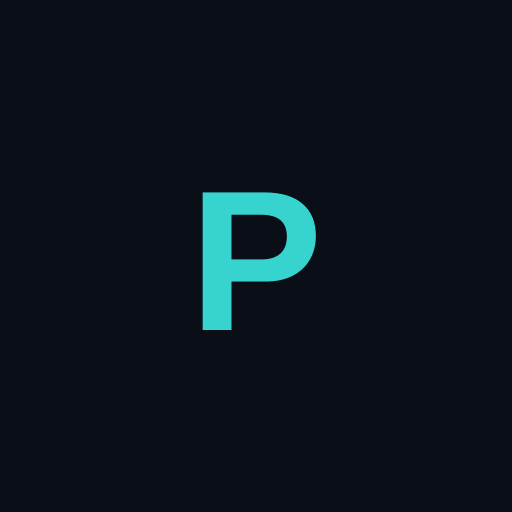
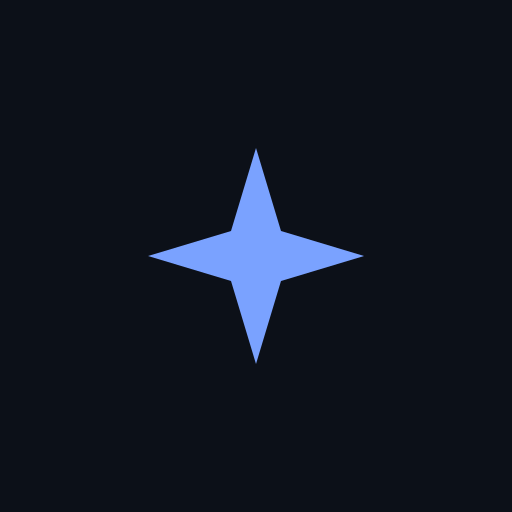
Add files via upload

Changed region(s): [[0.2812, 0.2812, 0.7188, 0.7188]]

diff --git a/index.html b/index.html
@@ -1,10 +1,10 @@
 <!DOCTYPE html>
 <html lang="pt-PT"><head><meta charset="UTF-8">
 <meta name="viewport" content="width=device-width, initial-scale=1, viewport-fit=cover">
-<meta name="theme-color" content="#0A0E17"><meta name="mobile-web-app-capable" content="yes">
-<meta name="apple-mobile-web-app-capable" content="yes"><title>PersonTrades</title>
+<meta name="theme-color" content="#0B0D10"><meta name="mobile-web-app-capable" content="yes">
+<meta name="apple-mobile-web-app-capable" content="yes"><title>Norte</title>
 <link rel="manifest" href="manifest.json"><link rel="icon" href="icon-192.png"><link rel="apple-touch-icon" href="icon-192.png">
-<style>html,body{margin:0;padding:0;background:#0A0E17}</style></head>
+<style>html,body{margin:0;padding:0;background:#0B0D10}</style></head>
 <body><div id="root"></div>
 <script>/**
  * @license React
@@ -330,18 +330,18 @@ const STORAGE_KEY = "persontrades:v1";
 
 /* ---------- paleta: "terminal de trading", distinta do PersonTurnos ---------- */
 const C = {
-  bg: "#0A0E17",
-  panel: "#111725",
-  panel2: "#161D2E",
-  line: "#212A40",
-  ink: "#E7ECF5",
-  dim: "#7E88A0",
-  cyan: "#37D4CF",
-  // acento principal (frio, "mercado")
-  cyanDim: "rgba(55,212,207,0.12)",
-  up: "#3DDC84",
+  bg: "#0B0D10",
+  panel: "#0F131B",
+  panel2: "#141926",
+  line: "#212A3E",
+  ink: "#EAEFFB",
+  dim: "#8A94A6",
+  cyan: "#7AA2FF",
+  // acento principal Norte (azul bússola)
+  cyanDim: "rgba(122,162,255,0.13)",
+  up: "#4ADE80",
   // verde lucro
-  down: "#FF5C7A",
+  down: "#FF7A90",
   // vermelho perda
   warn: "#FFB454",
   // âmbar aviso
@@ -612,7 +612,7 @@ function PersonTrades() {
       paddingBottom: 40
     }
   }, /*#__PURE__*/React.createElement("style", null, `
-        @import url('https://fonts.googleapis.com/css2?family=Inter:wght@400;500;600;700&family=JetBrains+Mono:wght@500;700&display=swap');
+        @import url('https://fonts.googleapis.com/css2?family=Inter:wght@400;500;600;700&family=JetBrains+Mono:wght@500;700&family=Sora:wght@600;700;800&display=swap');
         * { box-sizing: border-box; }
         input:focus, select:focus, button:focus-visible { outline: 2px solid ${C.cyan}; outline-offset: 1px; }
         input, select { color-scheme: dark; }
@@ -676,11 +676,7 @@ function EcraInicio({
   const totalSaques = contas.reduce((acc, c) => acc + c.mesas.reduce((a, m) => a + (m.saques || []).reduce((s, x) => s + x.valor, 0), 0), 0);
   const props = contas.filter(c => c.tipo === "prop");
   const pessoais = contas.filter(c => c.tipo === "pessoal");
-  return /*#__PURE__*/React.createElement("div", null, /*#__PURE__*/React.createElement(Cabecalho, {
-    titulo: "PERSON",
-    destaque: "TRADES",
-    sub: "Diário de trading"
-  }), /*#__PURE__*/React.createElement("div", {
+  return /*#__PURE__*/React.createElement("div", null, /*#__PURE__*/React.createElement(Cabecalho, null), /*#__PURE__*/React.createElement("div", {
     style: {
       padding: "0 16px",
       maxWidth: 600,
@@ -2369,41 +2365,43 @@ function Cabecalho({
     style: {
       display: "flex",
       alignItems: "center",
-      gap: 10
+      gap: 12
     }
   }, /*#__PURE__*/React.createElement("div", {
     style: {
-      width: 34,
-      height: 34,
-      borderRadius: 9,
-      background: C.cyanDim,
-      border: `1px solid ${C.cyan}55`,
+      width: 40,
+      height: 40,
+      borderRadius: 11,
+      background: "#0C1018",
+      border: `1px solid ${C.cyan}44`,
       display: "grid",
-      placeItems: "center",
-      fontFamily: "'JetBrains Mono', monospace",
-      fontWeight: 700,
-      color: C.cyan,
-      fontSize: 18
+      placeItems: "center"
     }
-  }, "P"), /*#__PURE__*/React.createElement("div", null, /*#__PURE__*/React.createElement("div", {
+  }, /*#__PURE__*/React.createElement("svg", {
+    width: "26",
+    height: "26",
+    viewBox: "0 0 72 72",
+    fill: "none"
+  }, /*#__PURE__*/React.createElement("path", {
+    d: "M36 18l4 14 14 4-14 4-4 14-4-14-14-4 14-4 4-14z",
+    fill: C.cyan
+  }))), /*#__PURE__*/React.createElement("div", null, /*#__PURE__*/React.createElement("div", {
     style: {
-      fontWeight: 700,
-      fontSize: 22,
+      fontFamily: "'Sora', 'Inter', sans-serif",
+      fontWeight: 800,
+      fontSize: 24,
       letterSpacing: "-0.01em",
       lineHeight: 1
     }
-  }, titulo, /*#__PURE__*/React.createElement("span", {
+  }, "Norte"), /*#__PURE__*/React.createElement("div", {
     style: {
-      color: C.cyan
-    }
-  }, destaque)), /*#__PURE__*/React.createElement("div", {
-    style: {
-      fontSize: 11,
+      fontSize: 10.5,
       color: C.dim,
-      letterSpacing: "0.1em",
-      textTransform: "uppercase"
+      letterSpacing: "0.14em",
+      textTransform: "uppercase",
+      marginTop: 3
     }
-  }, sub))));
+  }, "plano · rota · disciplina"))));
 }
 function CartaoNumero({
   rotulo,
@@ -2544,7 +2542,7 @@ const inp = {
 };
 const btnPrimario = {
   background: C.cyan,
-  color: "#04201F",
+  color: "#0A1428",
   border: "none",
   borderRadius: 11,
   padding: "12px 16px",

diff --git a/sw.js b/sw.js
@@ -1,4 +1,4 @@
-const CACHE='persontrades-v2';
+const CACHE='norte-v3';
 const F=['./','./index.html','./manifest.json','./icon-192.png','./icon-512.png'];
 self.addEventListener('install',e=>{e.waitUntil(caches.open(CACHE).then(c=>c.addAll(F)).then(()=>self.skipWaiting()))});
 self.addEventListener('activate',e=>{e.waitUntil(caches.keys().then(ks=>Promise.all(ks.filter(k=>k!==CACHE).map(k=>caches.delete(k)))).then(()=>self.clients.claim()))});
@@ -7,13 +7,11 @@ self.addEventListener('fetch',e=>{
   const url=new URL(e.request.url);
   const isDoc=e.request.mode==='navigate'||url.pathname.endsWith('/')||url.pathname.endsWith('index.html');
   if(isDoc){
-    // rede primeiro para o HTML: apanha sempre a versão nova quando há net
     e.respondWith(
       fetch(e.request).then(r=>{const c=r.clone();caches.open(CACHE).then(x=>x.put('./index.html',c));return r})
       .catch(()=>caches.match('./index.html').then(r=>r||caches.match('./')))
     );
   } else {
-    // resto: cache primeiro (rápido), atualiza em fundo
     e.respondWith(
       caches.match(e.request,{ignoreSearch:true}).then(cached=>{
         const net=fetch(e.request).then(r=>{const c=r.clone();caches.open(CACHE).then(x=>x.put(e.request,c));return r}).catch(()=>cached);